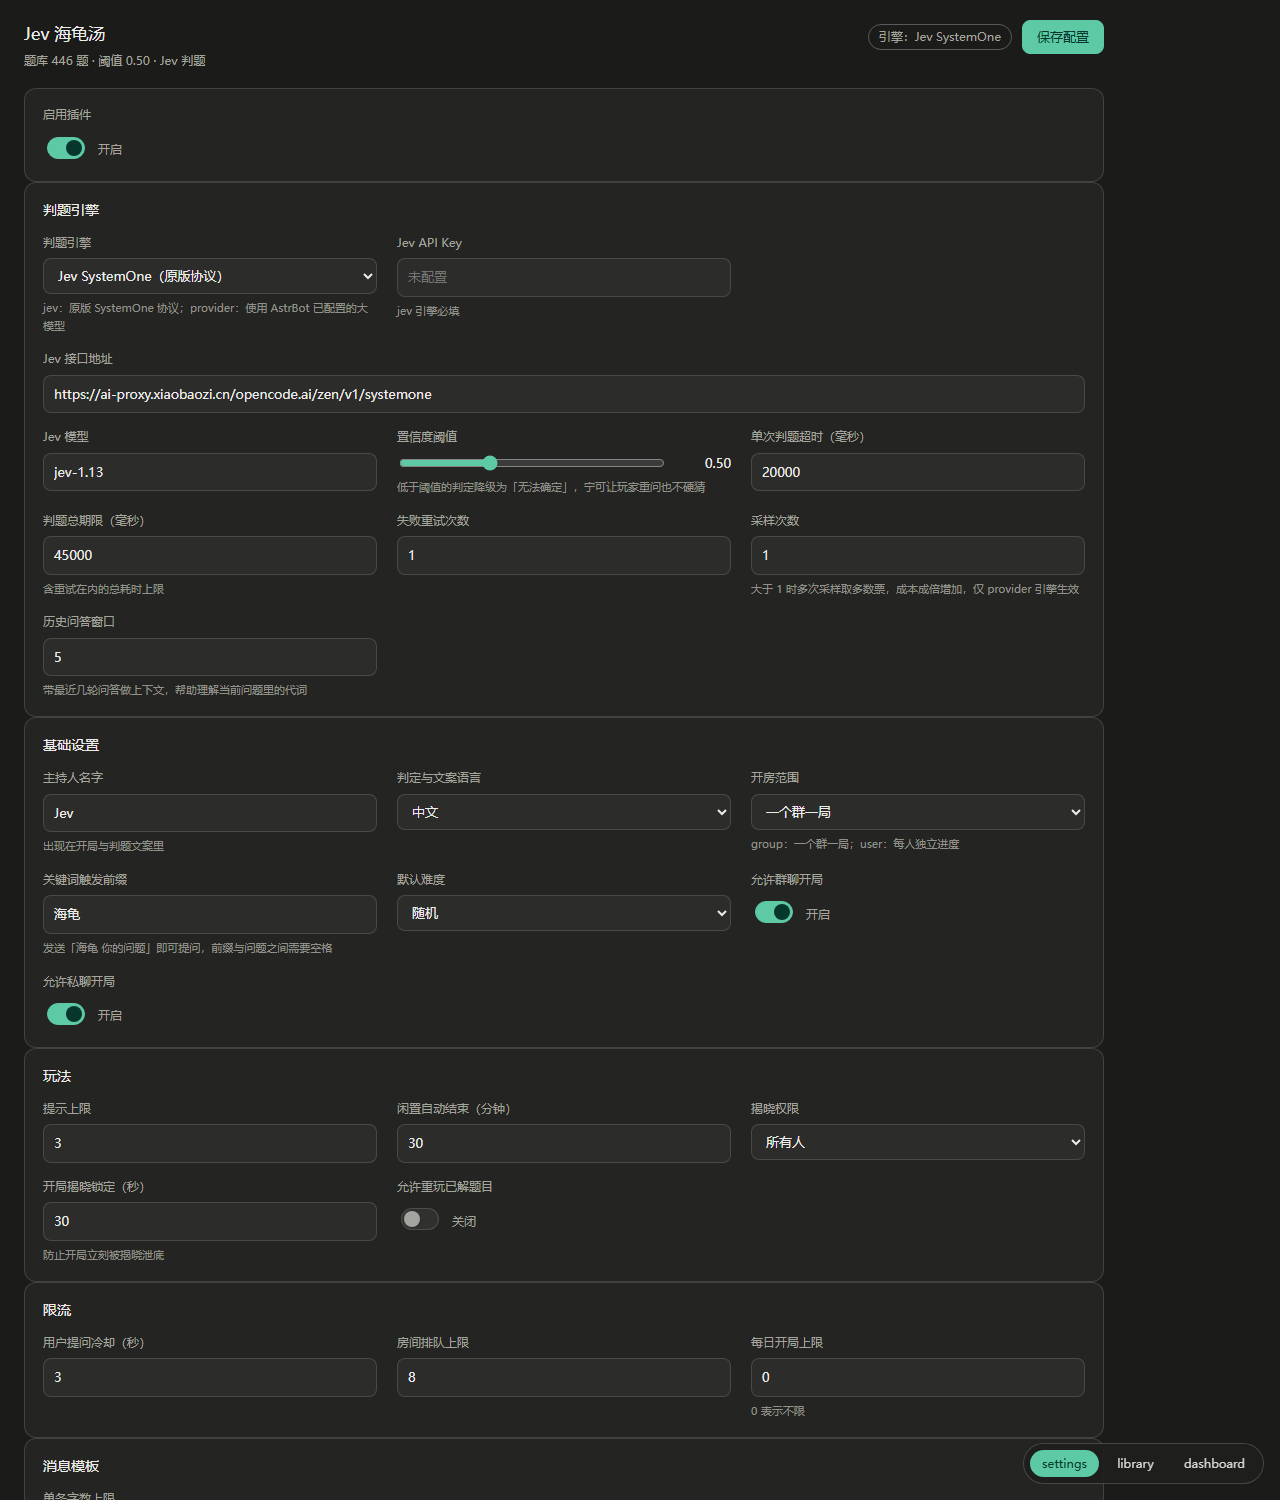
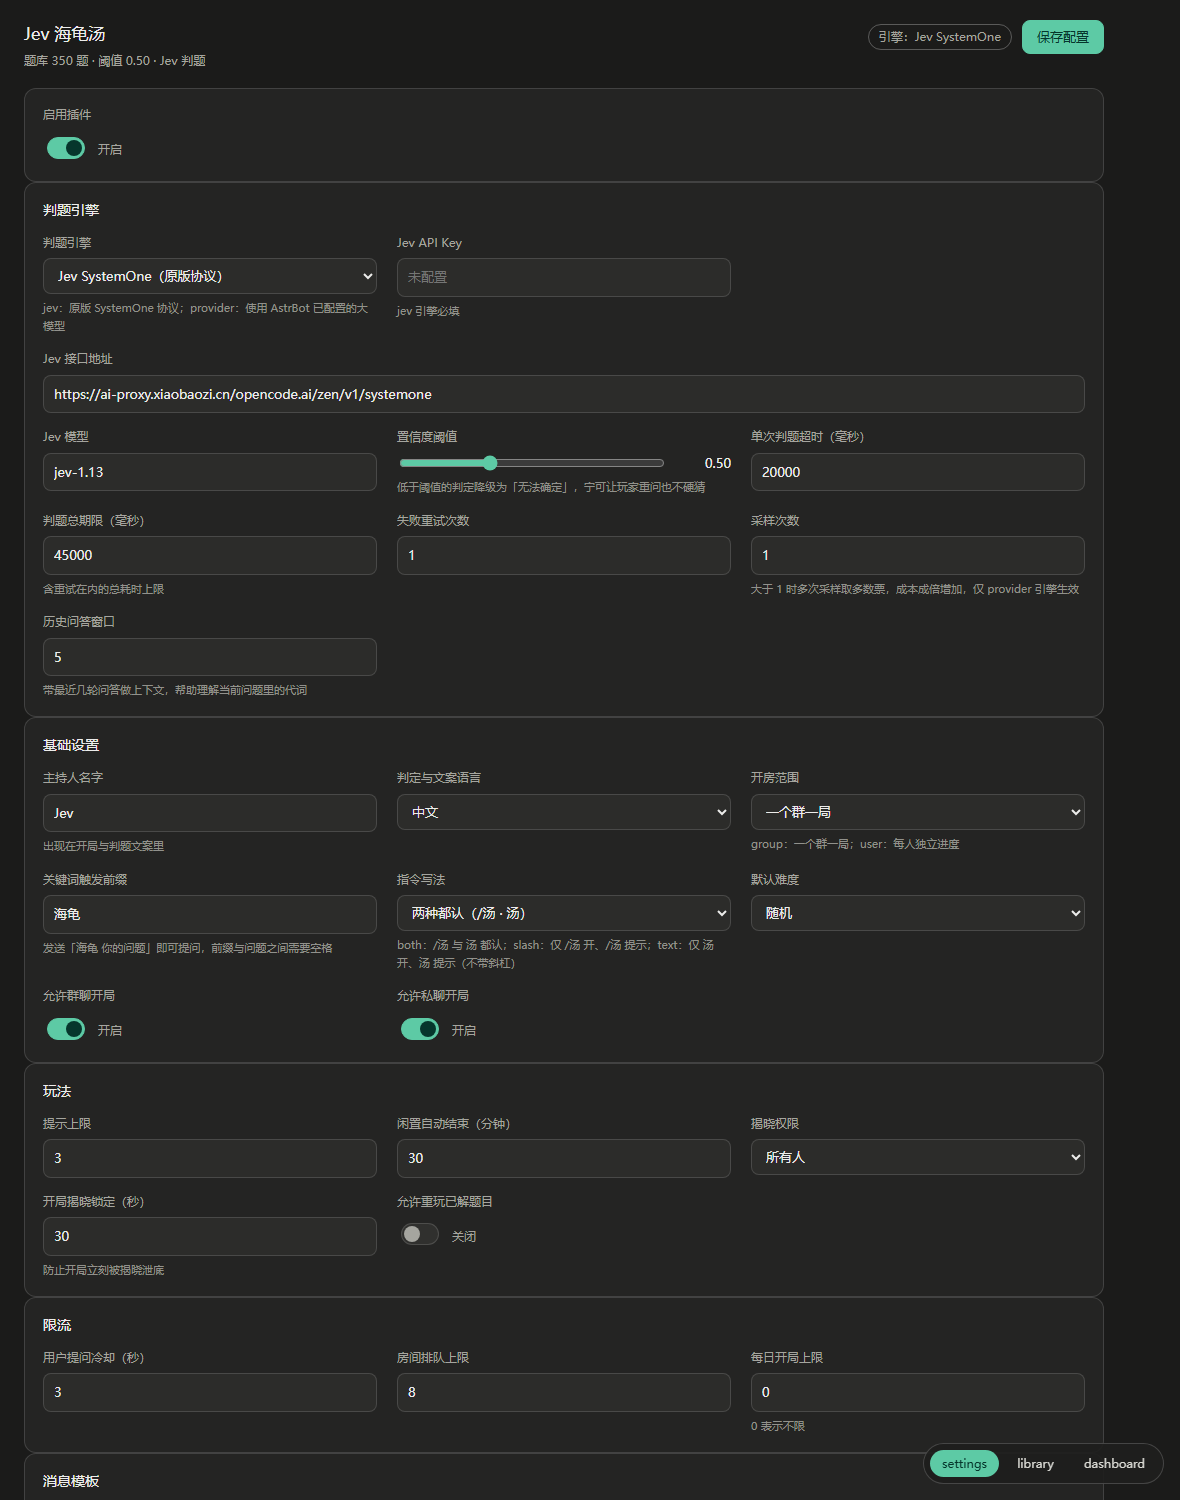
feat: 指令写法可选斜杠或纯文字
新增 basic.command_style（both / slash / text），默认 both 保持原有行为。

- 文字写法改由消息 handler 直接执行，不再依赖框架的唤醒前缀
- text 模式下斜杠写法不再触发，也不会吞掉消息
- 出站文案同步去掉指令前的斜杠，避免教玩家一个不生效的写法
- 设置页下拉带中文标签，README 与 CHANGELOG 补说明

diff --git a/views/settings/app.js b/views/settings/app.js
@@ -14,6 +14,9 @@ const OPTION_LABELS = {
   hard: "困难",
   all: "所有人",
   admin: "仅管理员",
+  both: "两种都认（/汤 · 汤）",
+  slash: "仅斜杠（/汤 提示）",
+  text: "仅文字（汤 提示）",
 };
 
 const state = { schema: {}, values: {}, meta: {}, loaded: false };

diff --git a/main.py b/main.py
@@ -20,10 +20,10 @@ from astrbot.api.star import Context, Star
 
 from .core.config import PluginConfig
 from .core.room import Room, RoomManager
-from .core.router import Action, classify
+from .core.router import Action, Decision, classify
 from .core.stats import EventLog, percent
 from .core.store import PuzzleStore
-from .core.templates import render, split_message
+from .core.templates import render, split_message, strip_command_slash
 from .judge import JudgeError
 from .judge.factory import build_engine
 from .judge.prompts import AskInput, RecentQa, SolveInput
@@ -174,14 +174,25 @@ class SituationPuzzlePlugin(Star):
     @filter.command("汤", alias={"海龟汤", "turtle", "sp"})
     async def tang_command(self, event: AstrMessageEvent) -> AsyncGenerator[Any, None]:
         await self._ensure_ready()
-        if not self.config.enabled:
+        # 文字指令模式下不接管斜杠写法，交给下面的消息 handler 判断
+        if not self.config.enabled or self.config.command_style == "text":
             return
 
         decision = classify(
             event.message_str,
             has_room=self.rooms.get(event.unified_msg_origin) is not None,
             prefix=self.config.keyword_prefix,
+            command_style=self.config.command_style,
         )
+        if decision.action is not Action.COMMAND:
+            return
+        event.stop_event()
+        async for item in self._run_command(event, decision):
+            yield item
+
+    async def _run_command(
+        self, event: AstrMessageEvent, decision: Decision
+    ) -> AsyncGenerator[Any, None]:
         argument = decision.argument or ""
         subcommand = decision.subcommand.lower()
         rest = self._split_argument(argument, decision.subcommand)
@@ -247,11 +258,16 @@ class SituationPuzzlePlugin(Star):
             at_bot=at_bot,
             reply_bot=reply_bot,
             prefix=self.config.keyword_prefix,
+            command_style=self.config.command_style,
         )
-        if decision.action in (Action.IGNORE, Action.COMMAND):
+        if decision.action is Action.IGNORE:
             return
 
         event.stop_event()
+        if decision.action is Action.COMMAND:
+            async for item in self._run_command(event, decision):
+                yield item
+            return
         if decision.action is Action.START_QUESTION:
             texts = await self._start_game(event, first_question=decision.text)
             async for item in self._emit(event, texts):
@@ -593,7 +609,10 @@ class SituationPuzzlePlugin(Star):
     async def _emit(
         self, event: AstrMessageEvent, texts: list[str]
     ) -> AsyncGenerator[Any, None]:
+        text_mode = self.config.command_style == "text"
         for text in texts:
+            if text_mode:
+                text = strip_command_slash(text)
             for chunk in split_message(text, self.config.max_chars):
                 yield event.plain_result(chunk)
 

diff --git a/tests/test_router.py b/tests/test_router.py
@@ -65,3 +65,60 @@ def test_custom_prefix():
     decision = classify("汤面 他是好人吗", has_room=True, prefix="汤面")
     assert decision.action is Action.QUESTION
     assert decision.text == "他是好人吗"
+
+
+def test_command_style_both_accepts_slash_and_text():
+    for text in ("/汤 状态", "汤 状态", "／汤 状态"):
+        decision = classify(text, has_room=True, command_style="both")
+        assert decision.action is Action.COMMAND, text
+        assert decision.subcommand == "状态"
+
+
+def test_command_style_slash_rejects_text_form():
+    assert classify("/汤 提示", has_room=True, command_style="slash").action is (
+        Action.COMMAND
+    )
+    assert classify("汤 提示", has_room=True, command_style="slash").action is (
+        Action.IGNORE
+    )
+
+
+def test_command_style_text_rejects_slash_form():
+    decision = classify("汤 提示", has_room=True, command_style="text")
+    assert decision.action is Action.COMMAND
+    assert decision.subcommand == "提示"
+    assert classify("/汤 提示", has_room=True, command_style="text").action is (
+        Action.IGNORE
+    )
+    assert classify("／海龟汤 排行", has_room=True, command_style="text").action is (
+        Action.IGNORE
+    )
+
+
+def test_command_style_keeps_other_channels_alive():
+    # 只改指令写法，不影响 @ / 回复 / 关键词三种提问通道
+    assert (
+        classify("她是自杀吗", has_room=True, at_bot=True, command_style="text").action
+        is Action.QUESTION
+    )
+    assert (
+        classify(
+            "她是自杀吗", has_room=True, reply_bot=True, command_style="slash"
+        ).action
+        is Action.QUESTION
+    )
+    assert (
+        classify(
+            "海龟 她是自杀吗", has_room=False, prefix="海龟", command_style="slash"
+        ).action
+        is Action.START_QUESTION
+    )
+
+
+def test_slash_stripping_only_hits_command_words():
+    from astrbot_plugin_situation_puzzle.core.templates import strip_command_slash
+
+    assert strip_command_slash("/汤 提示 · /汤 答 <推理>") == "汤 提示 · 汤 答 <推理>"
+    assert strip_command_slash("发送 /海龟汤 开一局。") == "发送 海龟汤 开一局。"
+    assert strip_command_slash("汤底是什么 /汤") == "汤底是什么 汤"
+    assert strip_command_slash("汤底是什么") == "汤底是什么"

diff --git a/tests/test_flow.py b/tests/test_flow.py
@@ -300,6 +300,51 @@ def test_plain_chat_is_not_answered(tmp_path):
     asyncio.run(scenario())
 
 
+def test_text_command_style(tmp_path):
+    import asyncio
+
+    async def scenario():
+        plugin, _ = await build_plugin(tmp_path, {"basic": {"command_style": "text"}})
+        try:
+            event = FakeEvent("汤 开")
+            replies = await collect(plugin.on_message(event))
+            assert replies, "文字指令应由消息 handler 接管"
+            assert plugin.rooms.get(event.unified_msg_origin) is not None
+
+            # 文字模式下斜杠写法不生效，也不吞掉消息
+            slash = FakeEvent("/汤 状态")
+            assert await collect(plugin.on_message(slash)) == []
+            assert slash.stopped is False
+            assert await collect(plugin.tang_command(FakeEvent("/汤 状态"))) == []
+
+            # 文案里的指令也跟着去掉斜杠
+            status = await collect(plugin.on_message(FakeEvent("汤 状态")))
+            assert status and all("/汤" not in text for text in status)
+        finally:
+            await plugin.terminate()
+
+    asyncio.run(scenario())
+
+
+def test_slash_command_style(tmp_path):
+    import asyncio
+
+    async def scenario():
+        plugin, _ = await build_plugin(tmp_path, {"basic": {"command_style": "slash"}})
+        try:
+            await collect(plugin.tang_command(FakeEvent("/汤 开")))
+            assert plugin.rooms.get("test:GroupMessage:1") is not None
+
+            # 斜杠模式下纯文字指令不响应
+            bare = FakeEvent("汤 状态")
+            assert await collect(plugin.on_message(bare)) == []
+            assert bare.stopped is False
+        finally:
+            await plugin.terminate()
+
+    asyncio.run(scenario())
+
+
 def test_uncertain_is_not_guessed(tmp_path):
     import asyncio
 

diff --git a/core/router.py b/core/router.py
@@ -10,6 +10,7 @@ from dataclasses import dataclass
 from enum import Enum
 
 COMMAND_ALIASES = ("海龟汤", "turtle", "sp", "汤")
+COMMAND_STYLES = ("both", "slash", "text")
 _LEADING = re.compile(r"^[/／]\s*")
 
 
@@ -28,8 +29,17 @@ class Decision:
     argument: str = ""
 
 
-def _match_command(text: str) -> tuple[str, str] | None:
-    """识别「汤 / 海龟汤 / turtle / sp」，允许不带斜杠但要求后接空格或结束。"""
+def _match_command(text: str, style: str = "both") -> tuple[str, str] | None:
+    """识别「汤 / 海龟汤 / turtle / sp」。
+
+    style 决定斜杠要求：both 两种都认，slash 必须带斜杠，text 不允许带斜杠。
+    别名之后必须接空格或结束，避免把「汤底是什么」当成指令。
+    """
+    has_slash = bool(_LEADING.match(text))
+    if style == "slash" and not has_slash:
+        return None
+    if style == "text" and has_slash:
+        return None
     body = _LEADING.sub("", text).strip()
     for alias in COMMAND_ALIASES:
         if body == alias:
@@ -46,13 +56,14 @@ def classify(
     at_bot: bool = False,
     reply_bot: bool = False,
     prefix: str = "海龟",
+    command_style: str = "both",
 ) -> Decision:
     """按 指令 > 回复bot > @bot > 关键词前缀 的优先级判定。"""
     raw = (text or "").strip()
     if not raw:
         return Decision(Action.IGNORE)
 
-    command = _match_command(raw)
+    command = _match_command(raw, command_style)
     if command:
         _, argument = command
         subcommand = argument.split(maxsplit=1)[0] if argument else ""

diff --git a/core/config.py b/core/config.py
@@ -12,6 +12,7 @@ DEFAULTS: dict[str, Any] = {
         "language": "zh",
         "room_scope": "group",
         "keyword_prefix": "海龟",
+        "command_style": "both",
         "default_difficulty": "random",
         "allow_group": True,
         "allow_private": True,
@@ -60,6 +61,7 @@ DEFAULTS: dict[str, Any] = {
 ENUMS = {
     "basic.language": ("zh", "en"),
     "basic.room_scope": ("group", "user"),
+    "basic.command_style": ("both", "slash", "text"),
     "basic.default_difficulty": ("random", "easy", "medium", "hard"),
     "judge.engine": ("jev", "provider"),
     "game.reveal_policy": ("all", "admin"),
@@ -141,6 +143,11 @@ class PluginConfig:
     @property
     def default_difficulty(self) -> str:
         return str(self.get("basic.default_difficulty", "random"))
+
+    @property
+    def command_style(self) -> str:
+        style = str(self.get("basic.command_style", "both"))
+        return style if style in ("both", "slash", "text") else "both"
 
     @property
     def engine(self) -> str:

diff --git a/core/templates.py b/core/templates.py
@@ -6,6 +6,18 @@ import re
 
 _VAR = re.compile(r"\{([a-zA-Z_][a-zA-Z0-9_]*)\}")
 _SENTENCE = re.compile(r"(?<=[。！？!?；;\n])")
+# 文案里的指令写法：斜杠 + 别名，别名后需接空白、标点或结束
+_CMD_SLASH = re.compile(
+    r"[/／](?=(?:海龟汤|turtle|sp|汤)(?=[\s\u3000·、，。！？)）]|$))"
+)
+
+
+def strip_command_slash(text: str) -> str:
+    """把文案里的「/汤」改写成「汤」。
+
+    文字指令模式下实际用法不带斜杠，文案跟着改，避免教玩家一个不生效的写法。
+    """
+    return _CMD_SLASH.sub("", text or "")
 
 
 def render(template: str, **values: object) -> str:

diff --git a/README.md b/README.md
@@ -28,6 +28,9 @@
 
 别名：`海龟汤` / `turtle` / `sp`。
 
+指令写法可在面板里改（`command_style`）：`both` 默认，`/汤` 与 `汤` 都认；`slash` 只认 `/汤`；
+`text` 只认 `汤`。选 `text` 时，机器人发出的文案也会把「/汤 提示」写成「汤 提示」。
+
 ### 提问的三条通道
 
 1. **@bot** —— `@机器人 她是自杀吗？`
@@ -137,7 +140,7 @@ git clone https://github.com/link0518/astrbot_plugin_situation_puzzle.git
 
 ```bash
 python -m pip install -r requirements.txt pytest ruff
-python -m pytest tests -q      # 58 个用例：协议、提示词、路由、房间、防剧透、端到端、面板接口
+python -m pytest tests -q      # 65 个用例：协议、提示词、路由、房间、防剧透、端到端、面板接口
 python -m ruff check .
 python -m ruff format --check .
 ```

diff --git a/CHANGELOG.md b/CHANGELOG.md
@@ -3,6 +3,14 @@
 格式参考 [Keep a Changelog](https://keepachangelog.com/zh-CN/1.1.0/)，
 版本号遵循 [语义化版本](https://semver.org/lang/zh-CN/)。
 
+## [未发布]
+
+### 新增
+
+- 配置项 `basic.command_style`：`both`（默认，斜杠与文字都认）、`slash`（仅 `/汤`）、
+  `text`（仅 `汤`）。文字模式下斜杠写法不再触发，出站文案同步去掉斜杠。
+- 文字写法改由消息 handler 直接执行，不再依赖框架的唤醒前缀；两种写法都可用时也不会互相吞消息。
+
 ## [0.1.0] - 2026-10-19
 
 首个版本，从一个空仓库到可玩。
